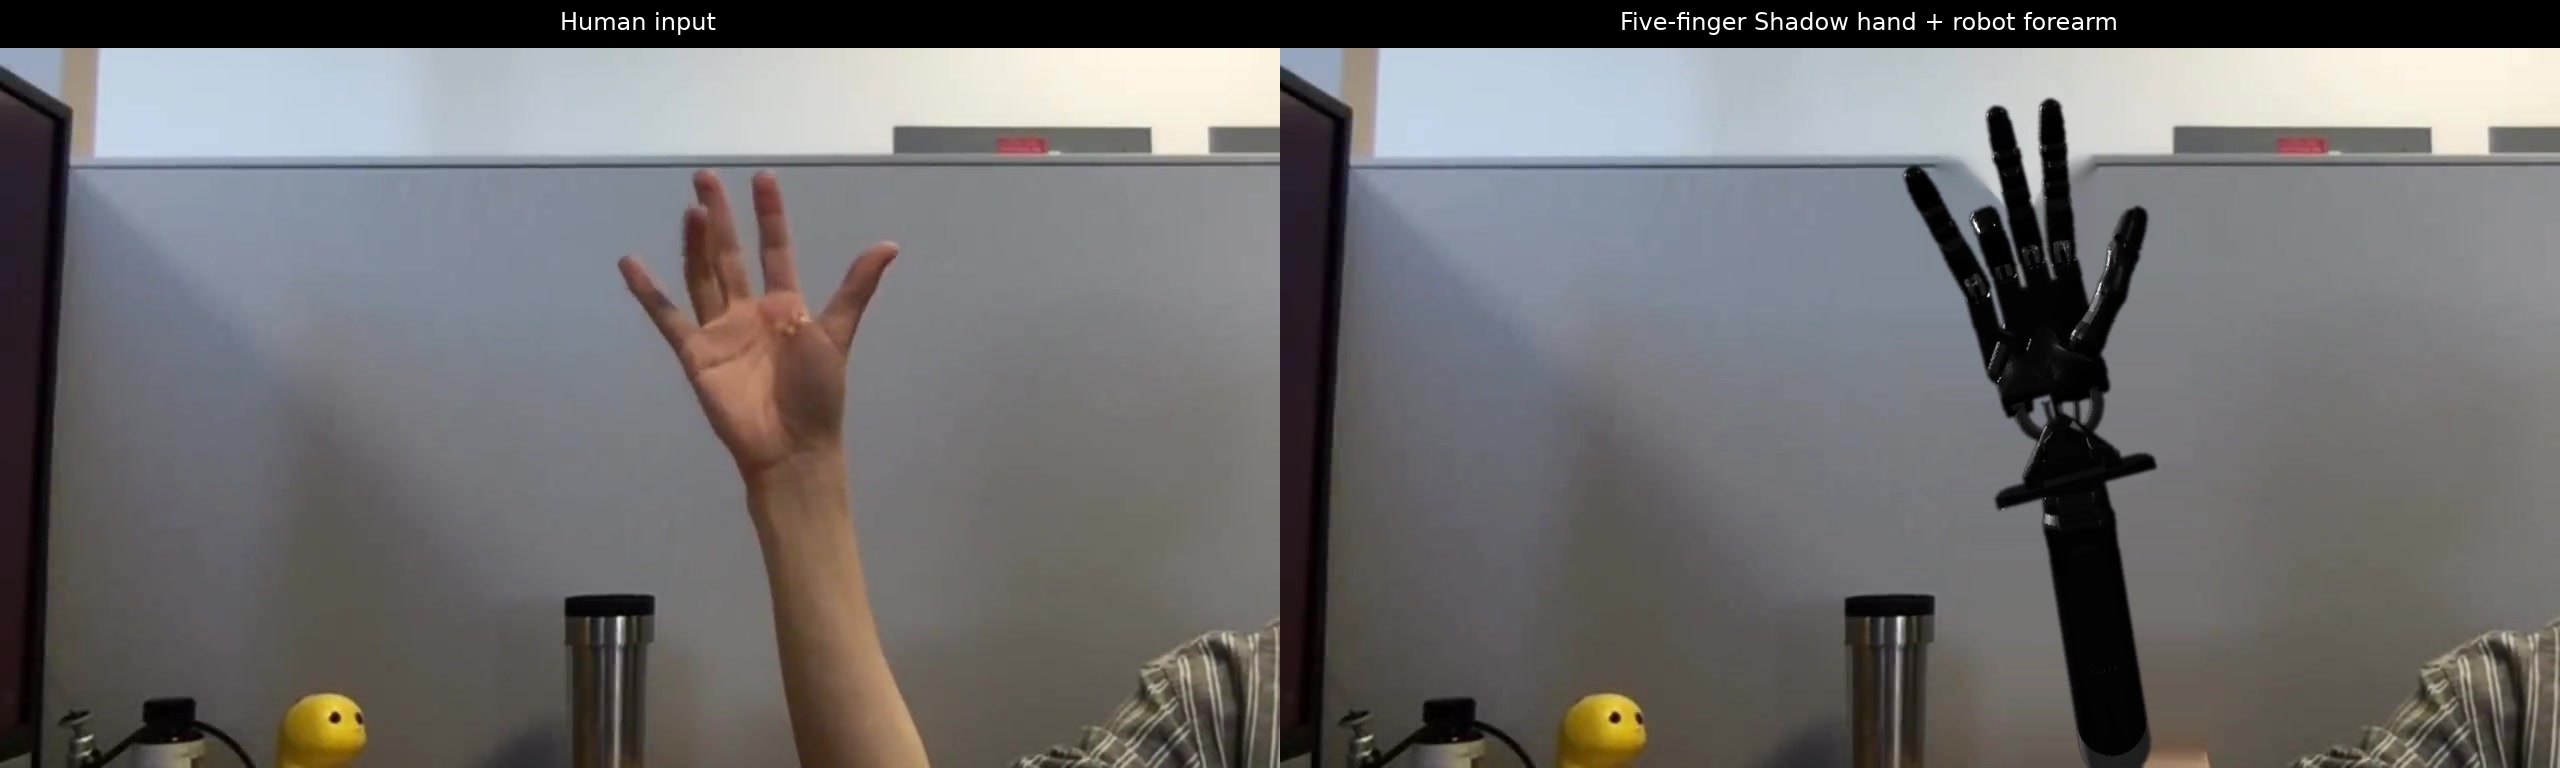
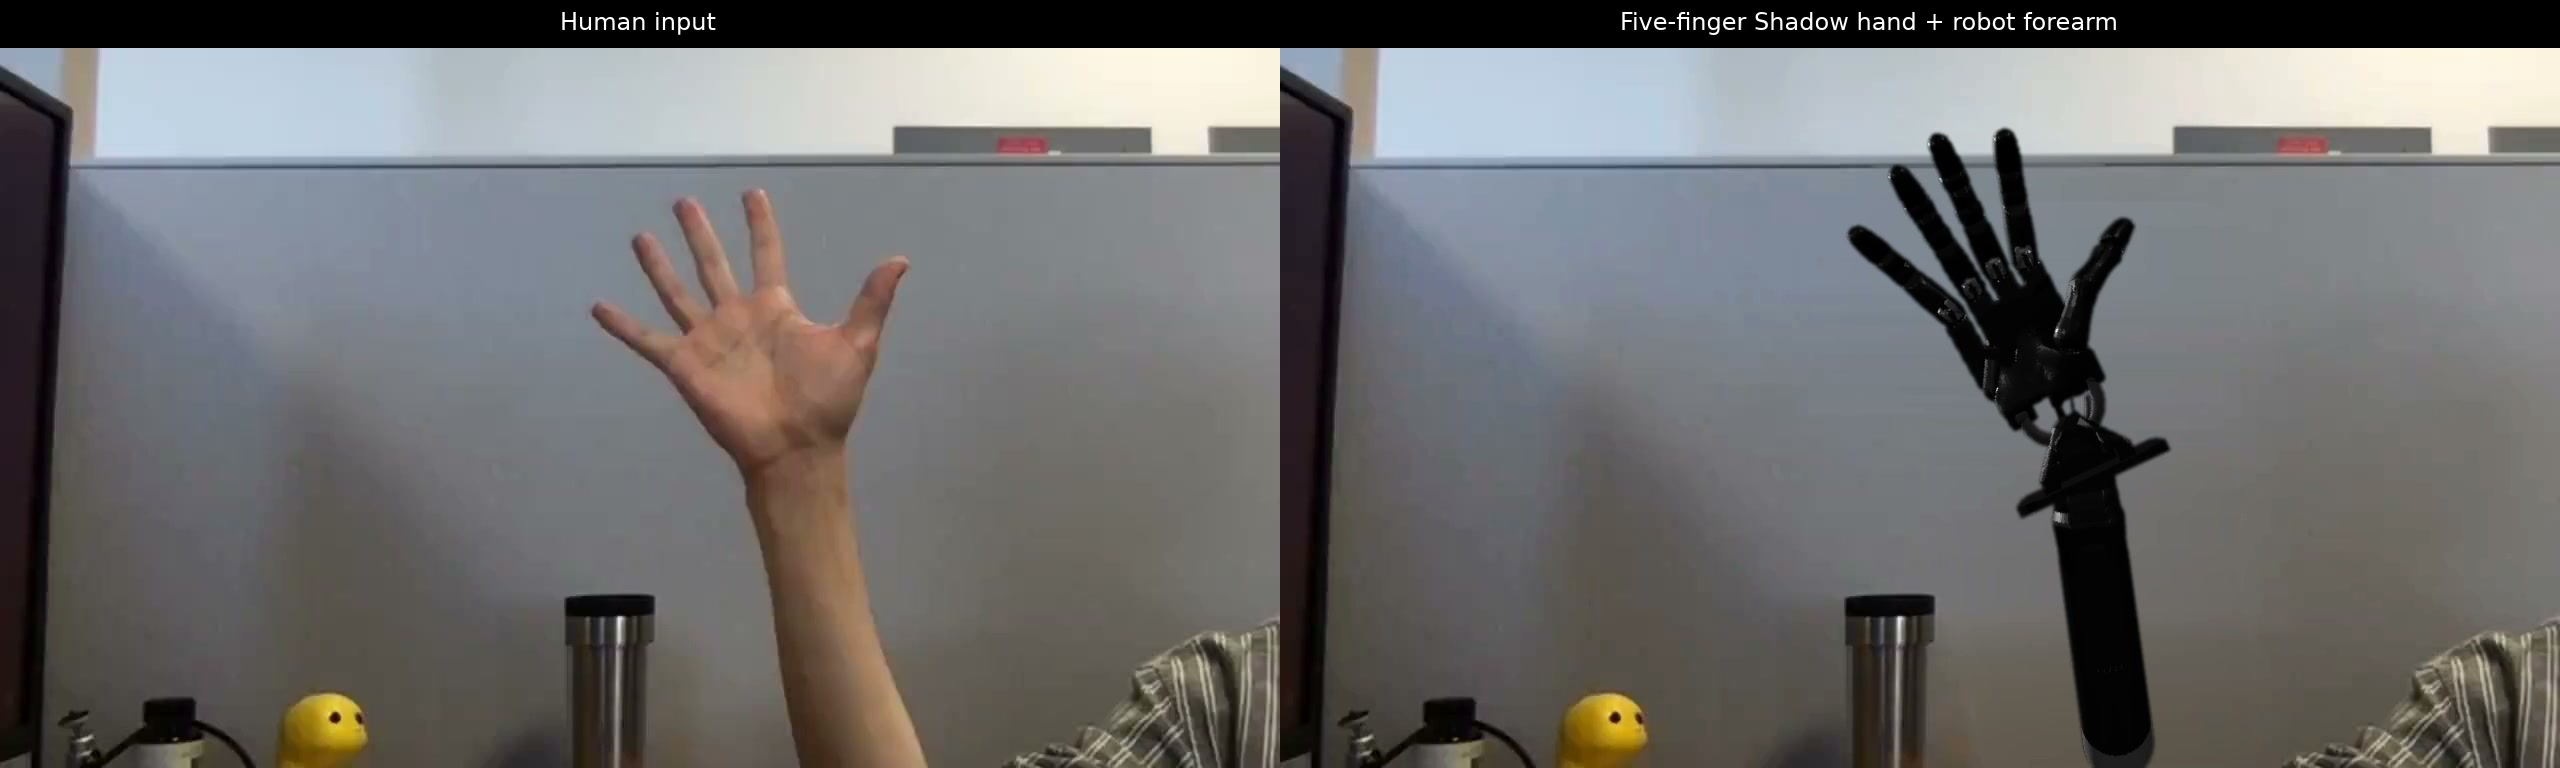
Use video first frame as Shadow hand cover

diff --git a/demo/index.html b/demo/index.html
@@ -307,7 +307,7 @@
 
         <article>
           <video controls playsinline preload="metadata"
-            poster="showcase/five-finger-shadow-arm-background-locked.jpg">
+            poster="showcase/five-finger-shadow-arm-background-locked.jpg?v=11">
             <source src="showcase/five-finger-shadow-arm-background-locked.mp4" type="video/mp4">
           </video>
           <div class="copy">
